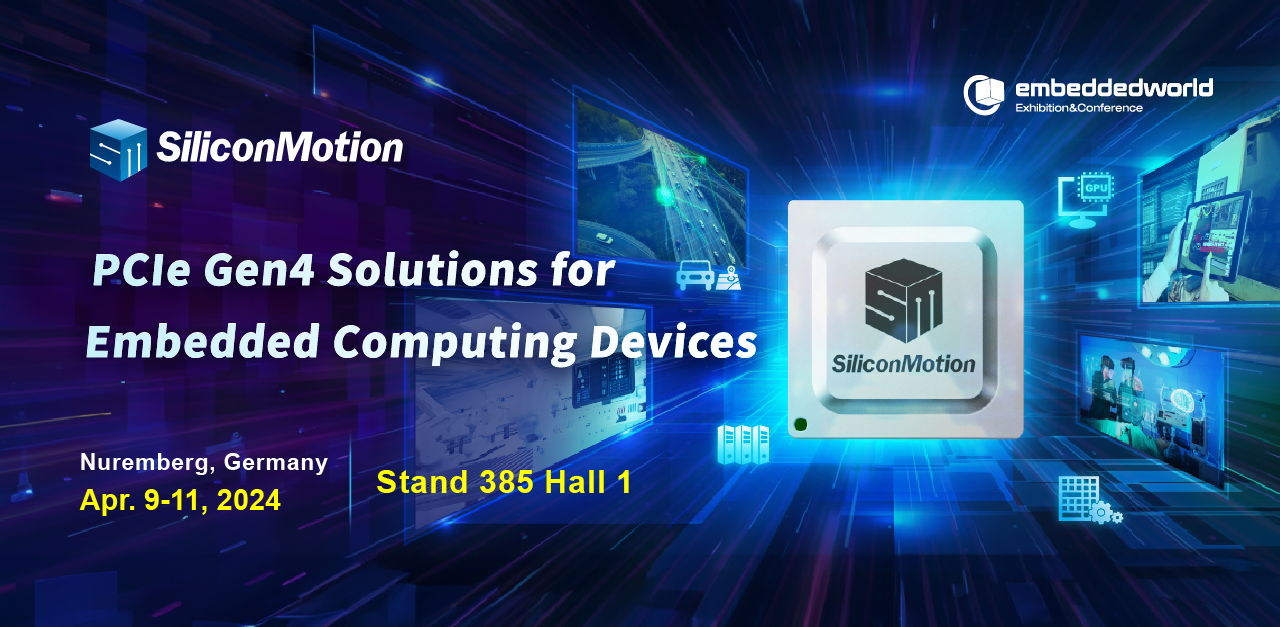
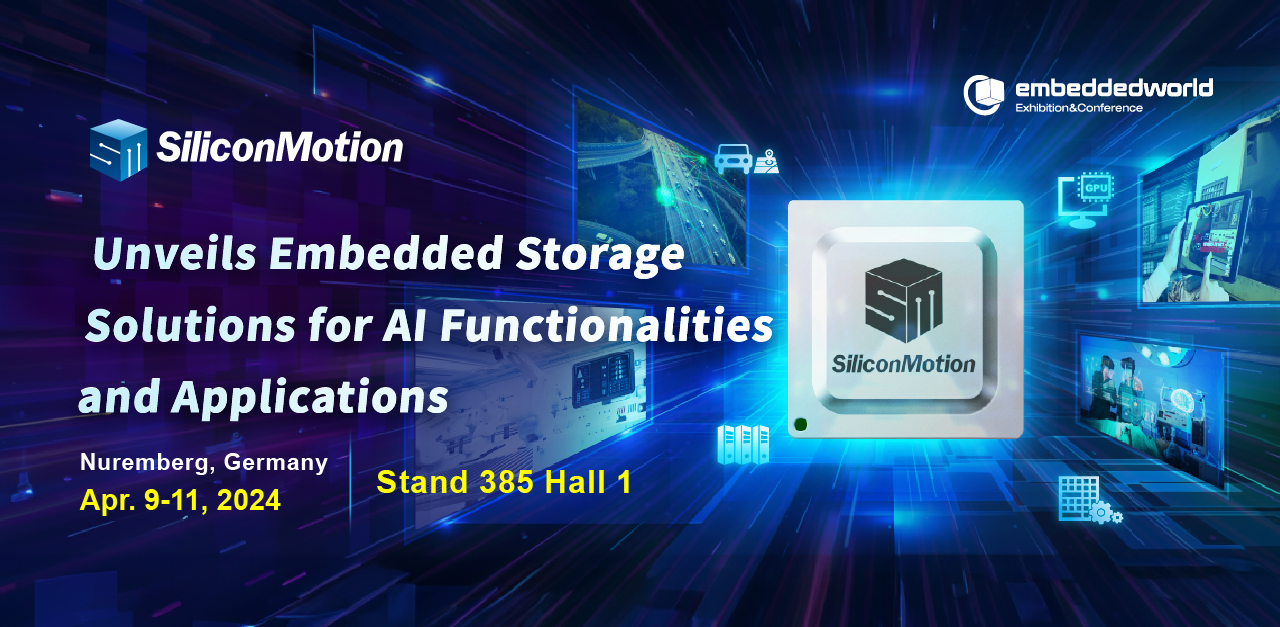
更新主標題

Changed region(s): [[0.0625, 0.3636, 0.625, 0.697], [0.5312, 0.2121, 0.625, 0.303]]

diff --git a/index.html b/index.html
@@ -71,7 +71,7 @@
       <img src="images/SMI-chip.png" alt="SiliconMotion Chip Image">
     </div>
     <div class="sec-hero-inner" data-aos="fade-up">
-      <h1>Unveils Storage Solutions for Industrial/Embedded Applications</h1>
+      <h1>Unveils Embedded Storage Solutions for AI Functionalities and Applications</h1>
     </div>
   </div>
 
